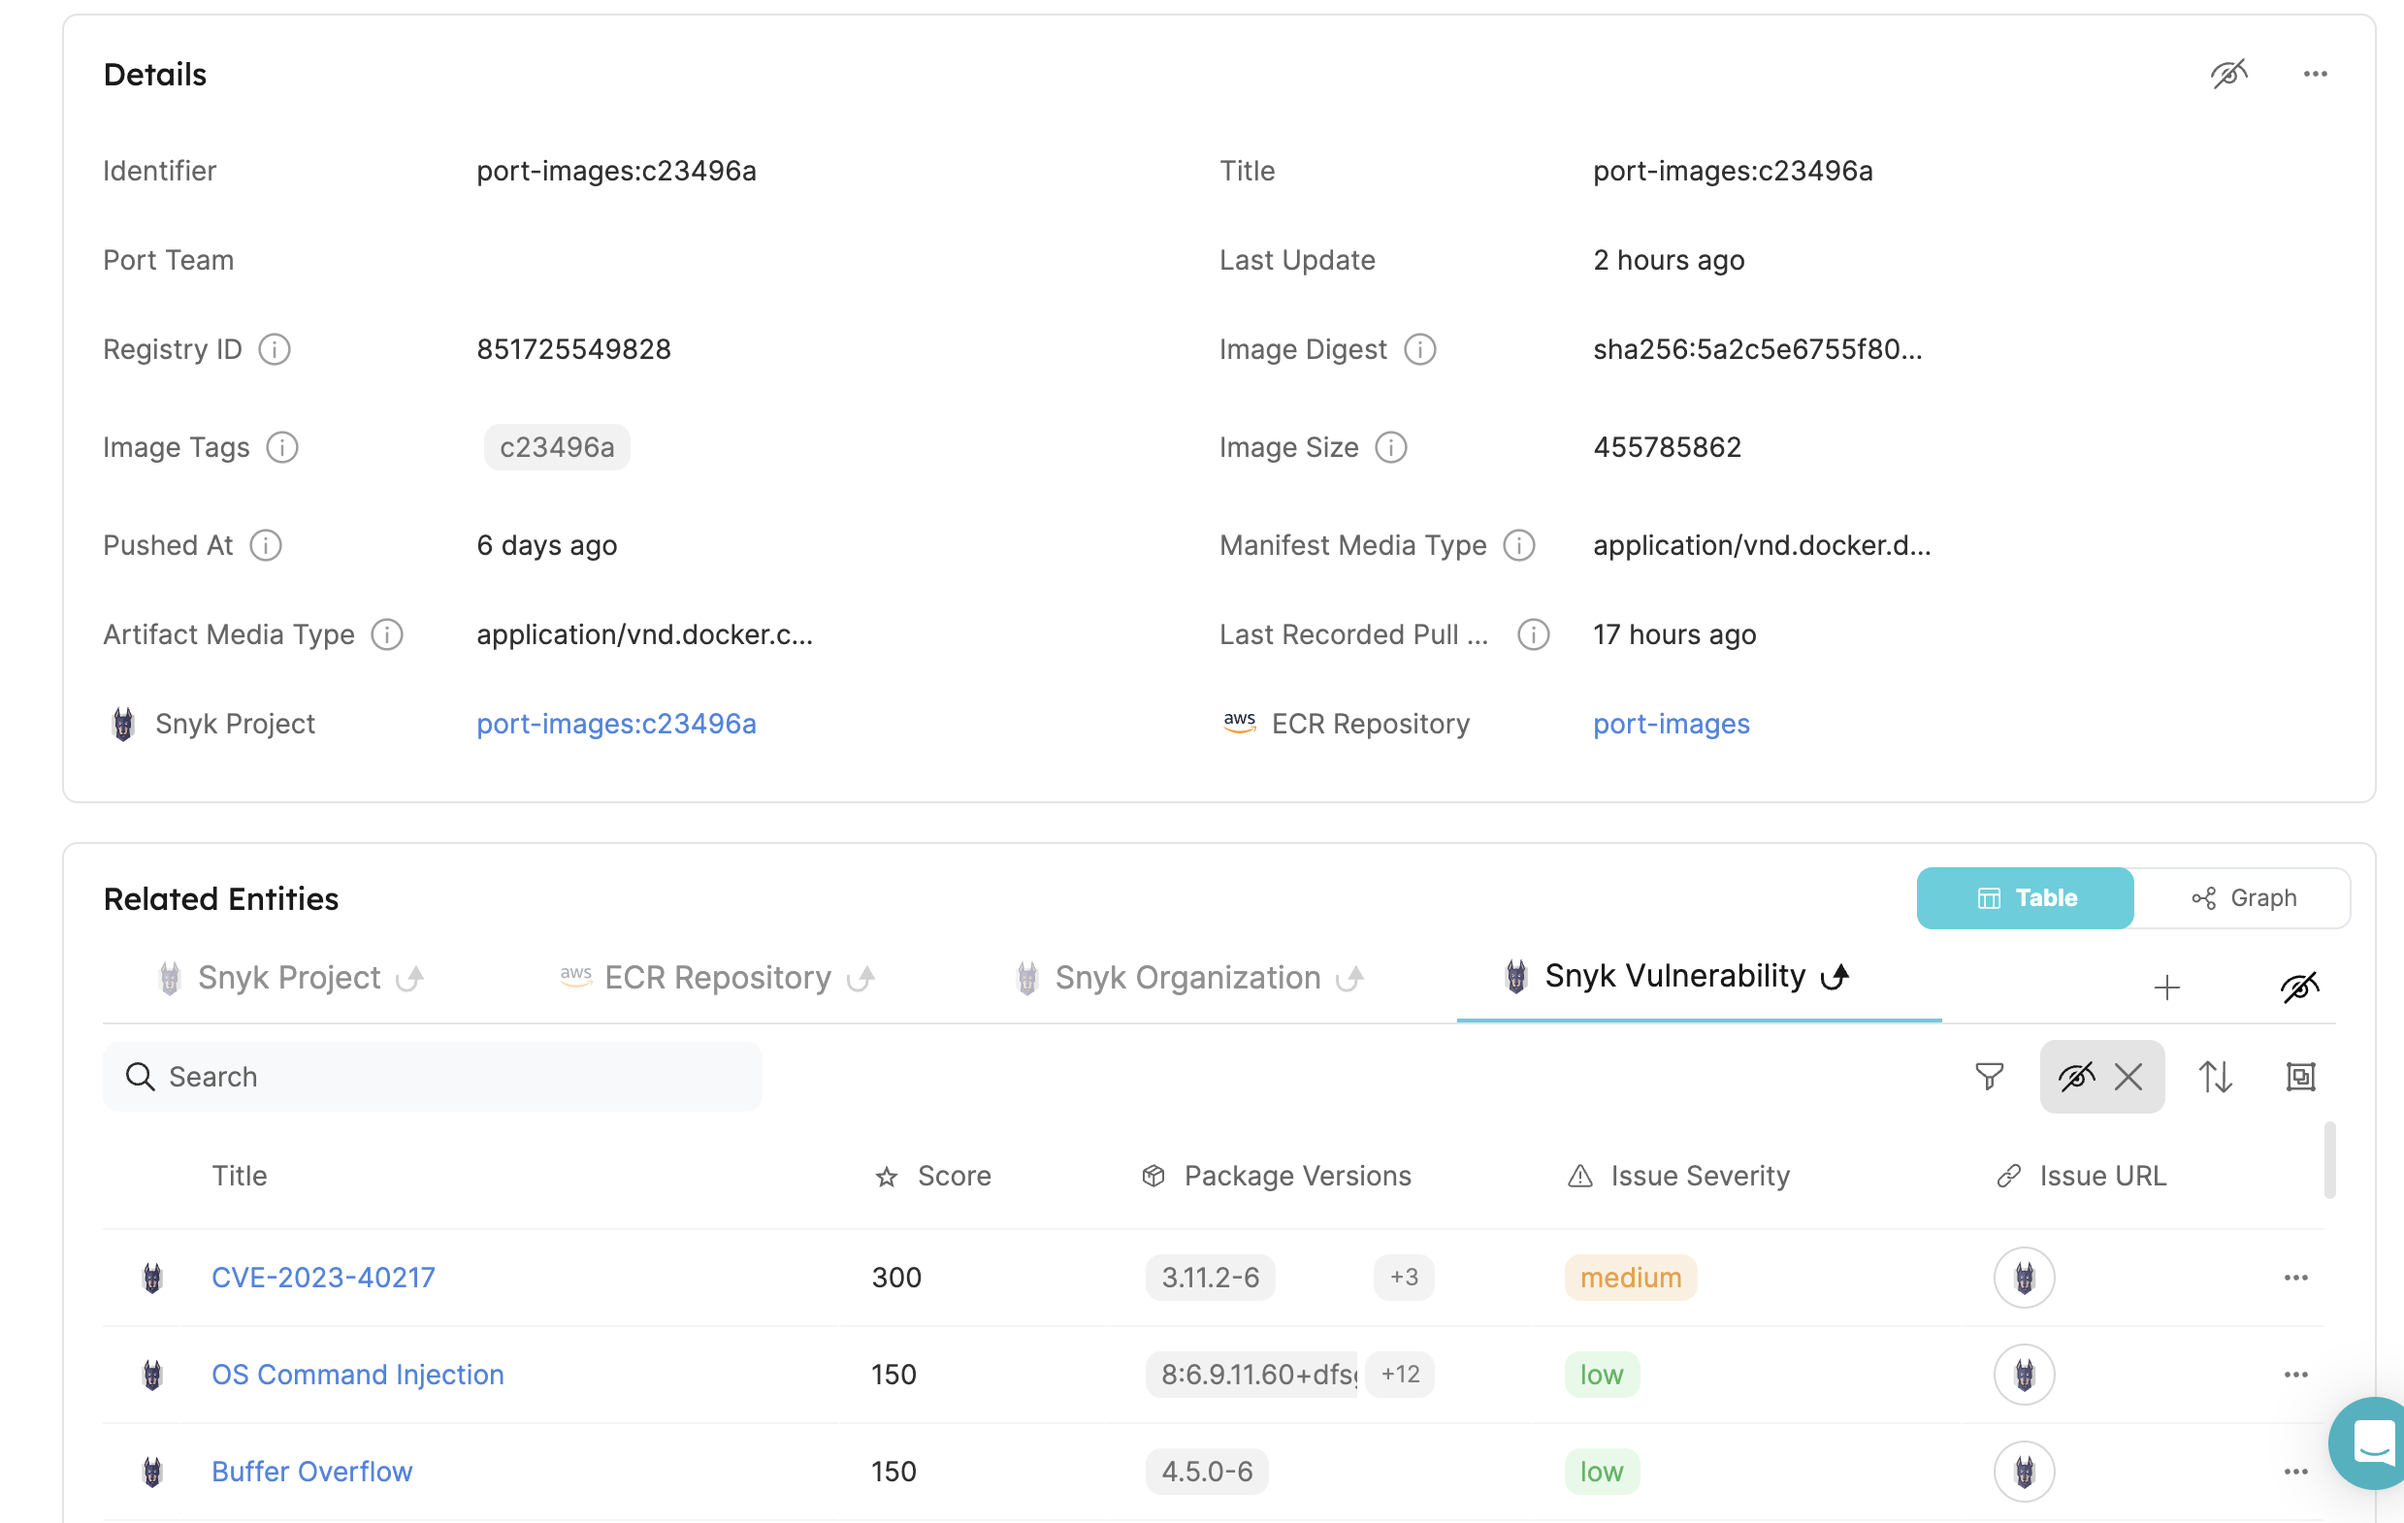
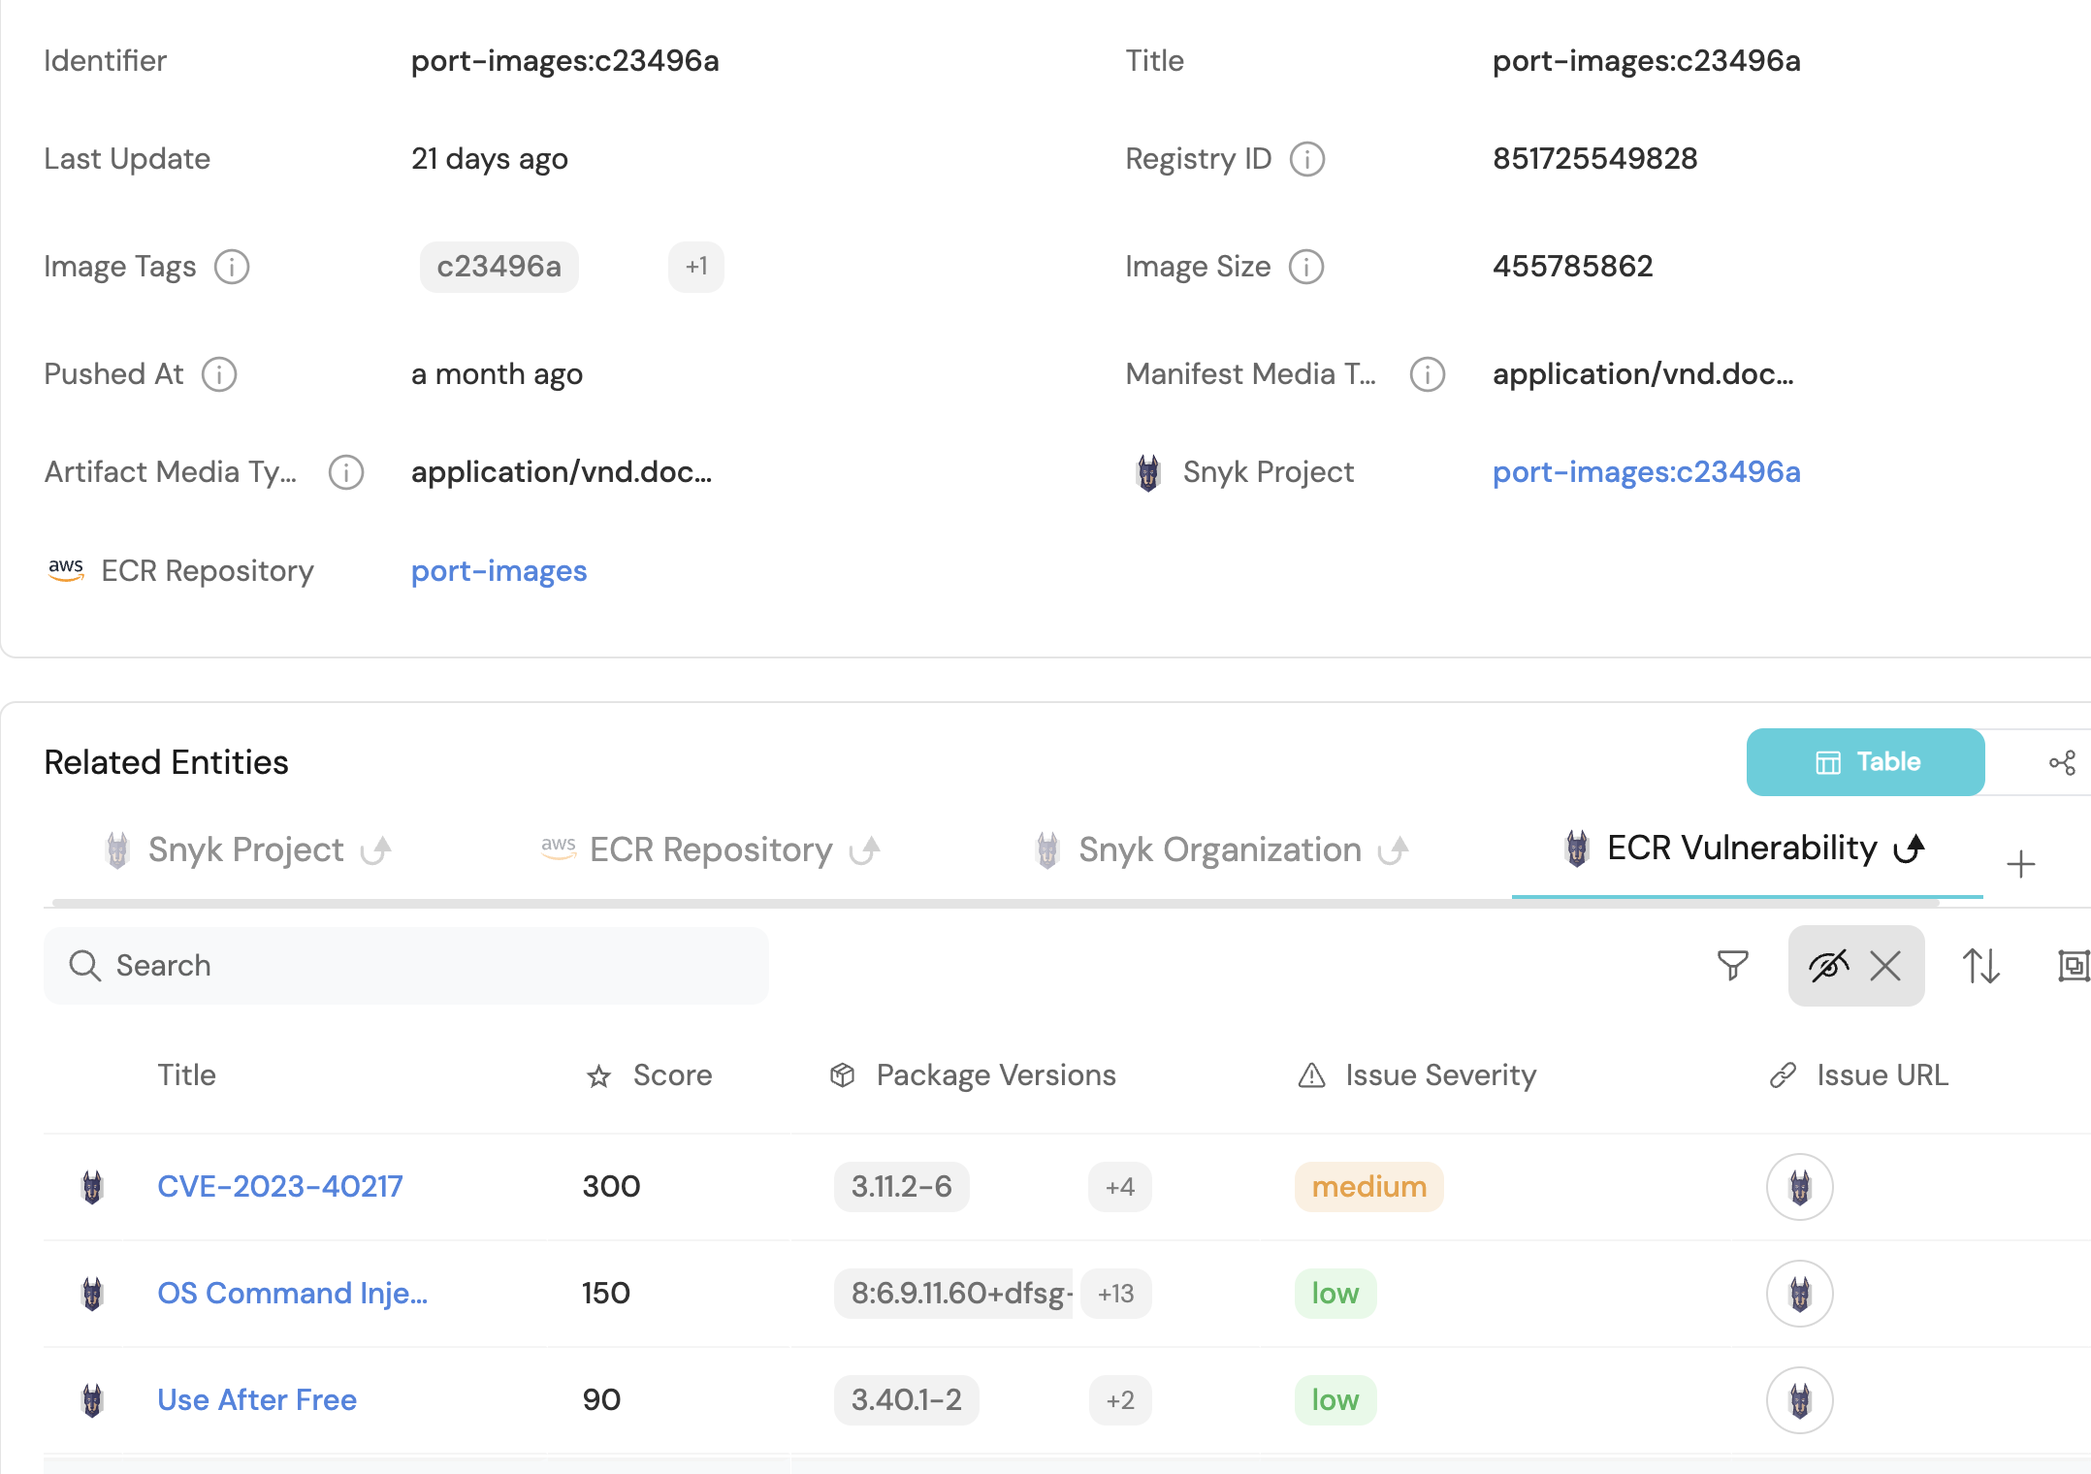
fix comments on snyk guide

diff --git a/docs/build-your-software-catalog/sync-data-to-catalog/code-quality-security/snyk/guides/visualize-image-vulnerability.md b/docs/build-your-software-catalog/sync-data-to-catalog/code-quality-security/snyk/guides/visualize-image-vulnerability.md
@@ -1,6 +1,6 @@
 # Visualize image vulnerabilities with Snyk data
 
-In this guide, we will configure a mapping to allow visualizing Snyk vulnerabilities in your container registries. This guide assume that you have an existing docker image entity in your software catalog. If you do not have the images ingested already, we recommend using our [AWS ECR script](https://github.com/port-labs/example-ecr-images) or [Google Container Registry script](https://github.com/port-labs/example-gcr-images) to sync data to your catalog. 
+In this guide, we will configure a mapping to allow visualizing Snyk vulnerabilities in your container registries. This guide assume that you have an existing docker image entity in your software catalog. If you do not have the images ingested already, we recommend using our [AWS ECR script](https://github.com/port-labs/example-ecr-images), [Google Container Registry script](https://github.com/port-labs/example-gcr-images), [JFrog build script](/build-your-software-catalog/custom-integration/webhook/examples/jfrog) or [GitHub packages script](https://github.com/port-labs/example-github-packages) to sync data to your catalog. 
 
 ## Prerequisites
 - Ensure you have the [Snyk ocean integration](/build-your-software-catalog/sync-data-to-catalog/code-quality-security/snyk/) installed
@@ -28,11 +28,6 @@ For this example, we will connect our AWS ECR images to Snyk project and it's vu
         "title": "Registry ID",
         "description": "The ID of the registry"
       },
-      "digest": {
-        "type": "string",
-        "title": "Image Digest",
-        "description": "SHA256 digest of image manifest"
-      },
       "tags": {
         "type": "array",
         "title": "Image Tags",
@@ -58,12 +53,6 @@ For this example, we will connect our AWS ECR images to Snyk project and it's vu
         "type": "string",
         "title": "Artifact Media Type",
         "description": "The media type of the image artifact"
-      },
-      "lastRecordedPullTime": {
-        "type": "string",
-        "title": "Last Recorded Pull Time",
-        "description": "Date and time the image was last pulled",
-        "format": "date-time"
       }
     },
     "required": []

diff --git a/docs/build-your-software-catalog/sync-data-to-catalog/code-quality-security/snyk/guides/connect-snyk-to-image.md b/docs/build-your-software-catalog/sync-data-to-catalog/code-quality-security/snyk/guides/connect-snyk-to-image.md
@@ -26,12 +26,6 @@ Snyk API provides information about scanned container images stored in container
         "description": "The origin of the registry",
         "icon": "DefaultProperty"
       },
-      "digest": {
-        "type": "string",
-        "title": "Image Digest",
-        "description": "SHA256 digest of image manifest",
-        "icon": "DefaultProperty"
-      },
       "tags": {
         "type": "array",
         "title": "Image Tags",
@@ -42,13 +36,6 @@ Snyk API provides information about scanned container images stored in container
         "type": "string",
         "title": "Pushed At",
         "description": "Date and time the image was pushed to the repository",
-        "format": "date-time",
-        "icon": "DefaultProperty"
-      },
-      "lastRecordedPullTime": {
-        "type": "string",
-        "title": "Last Recorded Pull Time",
-        "description": "Date and time the image was last pulled",
         "format": "date-time",
         "icon": "DefaultProperty"
       },
